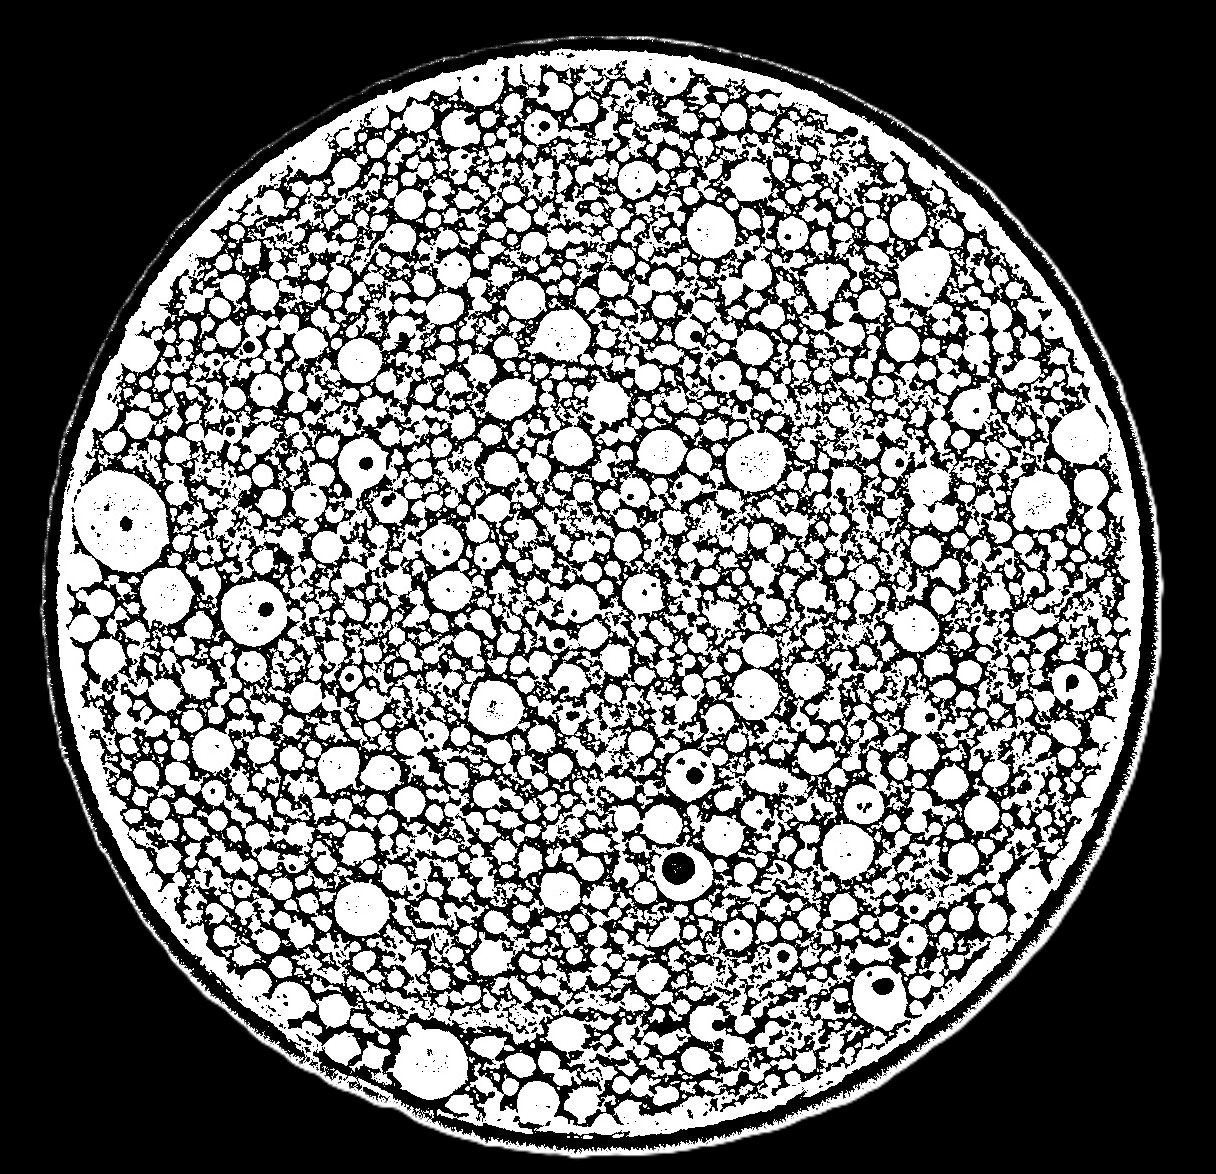
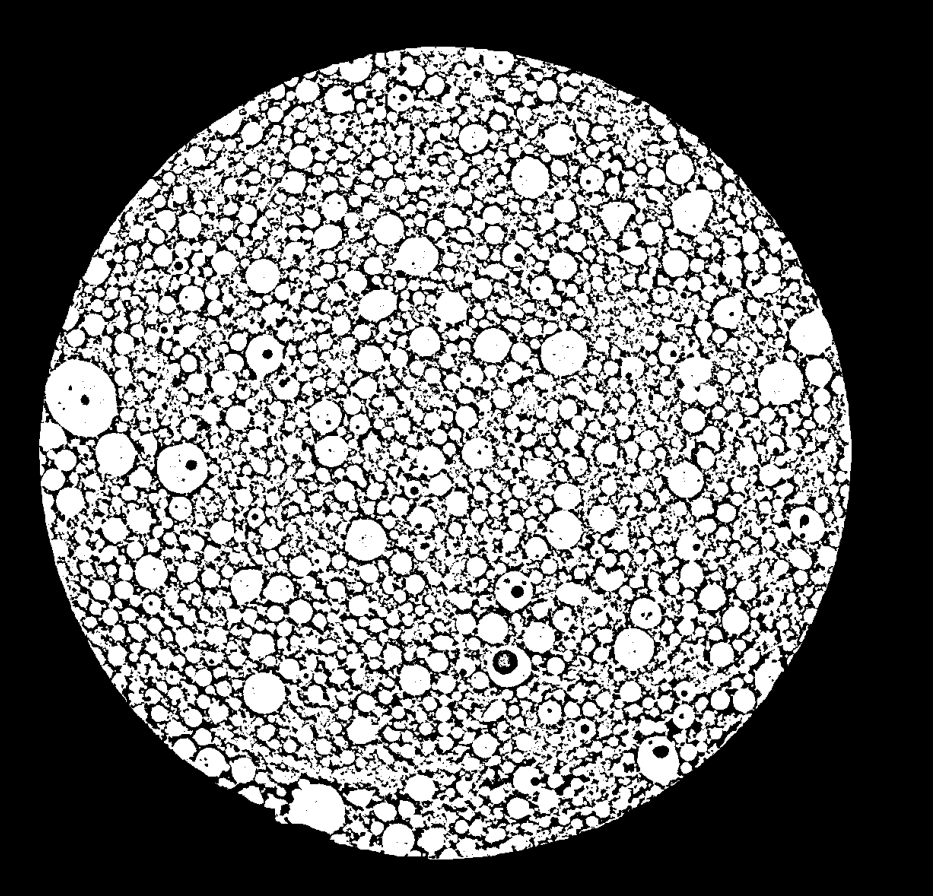
final commit before IP report. Main functions tested to work.

diff --git a/particleAnalysisMorph.py b/particleAnalysisMorph.py
@@ -4,31 +4,43 @@ import numpy as np
 import matplotlib.pyplot as plt
 import cv2
 import skimage
-from skimage.measure import regionprops, label
+from skimage.measure import regionprops, label, regionprops_table
 from skimage.color import label2rgb
 from scipy import ndimage as ndi
 from skimage.feature import peak_local_max
 from skimage.segmentation import watershed
 from skimage import filters, morphology, segmentation, measure, feature
 import random
+import pandas as pd
 
 image = cv2.imread('Adaptive Gaussian edited.png')
 image = cv2.threshold(image, 100, 255, cv2.THRESH_BINARY)[1]
-morphed = cv2.erode(image, cv2.getStructuringElement(cv2.MORPH_RECT, (2, 2)), iterations=2)
-morphed = cv2.morphologyEx(morphed, cv2.MORPH_CLOSE , np.ones((2,2),np.uint8))
+
+morphed = cv2.morphologyEx(image, cv2.MORPH_CLOSE , np.ones((2,2),np.uint8))
+#morphed = cv2.erode(morphed, cv2.getStructuringElement(cv2.MORPH_DIAMOND, (3, 3)), iterations=2)
+morphed = cv2.erode(morphed, cv2.getStructuringElement(cv2.MORPH_RECT, (2, 2)), iterations=4)
 morphed = cv2.morphologyEx(morphed, cv2.MORPH_OPEN , np.ones((2,2),np.uint8))
 morphed = cv2.threshold(morphed, 100, 255, cv2.THRESH_BINARY)[1]
-labeledImage, count = label(cv2.cvtColor(morphed, cv2.COLOR_BGR2GRAY), connectivity=2, return_num=True)
-print(count)
+labeledImage, count = label(cv2.cvtColor(morphed, cv2.COLOR_BGR2GRAY), connectivity=1, return_num=True)
+# print(count)
+# plt.imshow(morphed)
+# plt.show()
+# plt.imshow(labeledImage)
+# plt.show()
+props = regionprops_table(
+    labeledImage,
+    properties=('feret_diameter_max', 'area', 'area_filled')
+)
+df = pd.DataFrame(props)
+df.to_csv("2D_316L_300mic_particle_analysis_results.csv", index=False)
 objects = regionprops(labeledImage)
 objects = [obj for obj in objects if obj.area > 100]
 for i in range(5):
     pick = random.randint(0,len(objects)-1)
     print(objects[pick].area)
     print(objects[pick])
-    plt.imshow(objects[pick].image.astype(np.uint8)*255)
-    plt.show()
-    breakpoint()
+    # plt.imshow(objects[pick].image.astype(np.uint8)*255)
+    # plt.show()
 #labeledImage = label2rgb(labeledImage,image=morphed, bg_label=0)
 
 '''

diff --git a/3dAnalysisSciKit.py b/3dAnalysisSciKit.py
@@ -18,14 +18,20 @@ largeObjects = skimage.morphology.remove_small_objects(labels, min_size=4000000,
 labels = labels ^ largeObjects
 
 filteredLabels = skimage.morphology.remove_small_objects(labels, min_size=100)
-props = skimage.measure.regionprops_table(filteredLabels, properties=['label', 'area_filled', 'axis_major_length', 'axis_minor_length', 'feret_diameter_max'])
-df = pd.DataFrame(props)
-df.to_csv("316L_300mic_3d_pore_analysis_results.csv", index=False)
+# props = skimage.measure.regionprops_table(filteredLabels, properties=['label', 'area_filled', 'axis_major_length', 'axis_minor_length', 'feret_diameter_max'])
+# df = pd.DataFrame(props)
+# df.to_csv("316L_300mic_3d_pore_analysis_results.csv", index=False)
+
+
 # transformed = ndi.distance_transform_edt(labels)
 # maxima = skimage.morphology.local_maxima(transformed)
 viewer = napari.Viewer()
-viewer.add_image(img, name='3D Volume', visible=False)
-viewer.add_labels(filteredLabels, name='Segmented Labels', visible=False)
-viewer.add_labels(morphedLabel, name='Morphed Labels')
+viewer.add_image(img, name='3D Volume', visible=False, scale=(3,3,3))
+viewer.scale_bar.visible = True
+viewer.scale_bar.unit = 'um'  
+viewer.scale_bar.font_size = 40 
+viewer.scale_bar.position = 'bottom_center'
+viewer.add_labels(filteredLabels, name='Segmented Labels', visible=False, scale=(3,3,3))
+viewer.add_labels(morphedLabel, name='Morphed Labels', scale=(3,3,3))
 # viewer.add_points(np.transpose(np.nonzero(maxima)), name='Local Maxima')
 napari.run()

diff --git a/extractData.py b/extractData.py
@@ -11,27 +11,32 @@ bytes_per_voxel = np.dtype(dtype).itemsize
 slice_size = width * height * bytes_per_voxel
 offset = slice_index * slice_size
 
+
 # open file and read only one slice
 with open(filename, 'rb') as f:
     f.seek(offset)
     slice_data = np.fromfile(f, dtype=dtype, count=width*height)
 
+
+
 slice_img = slice_data.reshape((height, width))
 
+
 thresh_global = cv2.threshold(slice_img, 100, 255, cv2.THRESH_BINARY)[1]
-thresh_otsu = cv2.threshold(slice_img, 0, 255, cv2.THRESH_BINARY + cv2.THRESH_OTSU)[1]
+thresh_otsu = cv2.threshold(slice_img, 0, 255, cv2.THRESH_OTSU)[1]
 thresh_adaptive_mean = cv2.adaptiveThreshold(slice_img, 255, cv2.ADAPTIVE_THRESH_MEAN_C, cv2.THRESH_BINARY, 51, 10)
 thresh_adaptive_gauss = cv2.adaptiveThreshold(slice_img, 255, cv2.ADAPTIVE_THRESH_GAUSSIAN_C, cv2.THRESH_BINARY, 51, 10)
 
-titles = ['Original', 'Global (t=100)', 'Otsu', 'Adaptive Mean', 'Adaptive Gaussian']
-images = [slice_img, thresh_global, thresh_otsu, thresh_adaptive_mean, thresh_adaptive_gauss]
+titles = ['Original', 'Otsu', 'Adaptive Mean', 'Adaptive Gaussian']
+images = [slice_img, thresh_otsu, thresh_adaptive_mean, thresh_adaptive_gauss]
 
 plt.figure(figsize=(14, 6))
-for i in range(5):
-    plt.subplot(2, 3, i+1)
+for i in range(4):
+    plt.subplot(2, 2, i+1)
     plt.imshow(images[i], cmap = 'gray')
-    plt.title(titles[i])
+    plt.title(titles[i], fontsize=30)
     plt.axis('off')
+    
     cv2.imwrite(titles[i] + ".jpg",images[i])
 plt.tight_layout()
 plt.show()

diff --git a/3dDisplay.py b/3dDisplay.py
@@ -3,7 +3,7 @@ import matplotlib.pyplot as plt
 import cv2
 import imageio
 
-filename = "20250318_HMX_4523_ZZ_Inconel_718_20mic_2000x2000x2000x8bit.raw"
+filename = "20250314_HMX_4523_ZZ_316L_300mic_2000x2000x2000x8bit.raw"
 #filename = "CylinderCropped.raw"
 width, height, depth = 2000, 2000, 2000
 dtype = np.uint8
@@ -25,15 +25,23 @@ k = np.ones((3,3),np.uint8)
 for i in range(100):
     original = slice_images[i].copy()
     cropMask = cv2.threshold(slice_images[i], 0 , 255, cv2.THRESH_BINARY + cv2.THRESH_OTSU)[1]
+    plt.imshow(cropMask, cmap='gray')
+    plt.show()
     slice_images[i] = cv2.adaptiveThreshold(slice_images[i], 255, cv2.ADAPTIVE_THRESH_GAUSSIAN_C, cv2.THRESH_BINARY, 41, 15)  
     
     #slice_images[i] = cv2.bitwise_not(slice_images[i])
     
     cropMask = cv2.dilate(cropMask, k, iterations=20)
+    plt.imshow(cropMask, cmap='gray')
+    plt.show()
     cropMask = cv2.erode(cropMask, k, iterations=30)
     outputImg = cv2.bitwise_and(cropMask, slice_images[i])
     #outputImg = cv2.morphologyEx(outputImg, cv2.MORPH_CLOSE , np.ones((2,2),np.uint8), iterations=1)
     slice_images[i] = outputImg
+    plt.imshow(cropMask, cmap='gray')
+    plt.show()
+    plt.imshow(outputImg, cmap='gray')
+    plt.show()
     # if i == 29:
     #     plt.subplot(121)
     #     plt.imshow(slice_images[i], cmap='gray')

diff --git a/graphing.py b/graphing.py
@@ -2,7 +2,7 @@ import pandas as pd
 import matplotlib.pyplot as plt
 import numpy as np
 
-df = pd.read_csv('poreFerretDiameter.csv')
+df = pd.read_csv('poreFerretDiameterAdjusted.csv')
 
 col1, col2, col3 = df.columns
 
@@ -18,7 +18,7 @@ bins = np.arange(min_edge, max_edge + bin_width, bin_width)
 
 
 plt.figure(figsize=(8, 6))
-
+plt.rcParams.update({'font.size': 20})
 
 counts1, _, patches1 = plt.hist(data1, bins=bins, alpha=0.5, label=col1)
 counts2, _, patches2 = plt.hist(data2, bins=bins, alpha=0.5, label=col2)
@@ -29,7 +29,7 @@ def add_labels(counts, patches):
         if count > 0:
             x = patch.get_x() + patch.get_width() / 2
             y = patch.get_height()
-            plt.text(x, y, int(count), ha='center', va='bottom', fontsize=8)
+            plt.text(x, y, int(count), ha='center', va='bottom', fontsize=20)
 
 
 # add_labels(counts1, patches1)
@@ -37,10 +37,11 @@ def add_labels(counts, patches):
 # add_labels(counts3, patches3)
 
 
+
 plt.xticks(bins, rotation=90)
-plt.xlabel('diameter (um)')
-plt.ylabel('Frequency')
-plt.title('Overlapping Histograms of Ferret Diameters of pores')
+plt.xlabel('diameter (um)', fontsize=20)
+plt.ylabel('Frequency', fontsize=20)
+plt.title('Overlapping Histograms of Ferret Diameters of Pores', fontsize=20)
 plt.legend()
 
 plt.tight_layout()

diff --git a/basicRawRead.py b/basicRawRead.py
@@ -2,12 +2,14 @@ import numpy as np
 import skimage
 import napari
 import pandas as pd
+import dask.array as da
 
-filename = "20250318_HMX_4523_ZZ_Inconel_718_20mic_2000x2000x2000x8bit.raw"
-width, height, depth = 2000, 2000, 2000
-dtype = np.uint8
+filename = r"E:\HT1762_B\20260213_HMX_4936_JP_HT1762_B_ALL_2000x2000x5748x32bit"
+width, height, depth = 2000, 2000, 5748
+# dtype = np.uint8
+dtype = np.float32
 
-slice_index = 1000  
+slice_index = 4748  
 bytes_per_voxel = np.dtype(dtype).itemsize
 slice_size = width * height * bytes_per_voxel
 offset = slice_index * slice_size
@@ -16,8 +18,8 @@ offset = slice_index * slice_size
 
 with open(filename, 'rb') as f:
     f.seek(offset)
-    slice_data = np.fromfile(f, dtype=dtype, count=width*height*100)
-img = slice_data.reshape((100, height, width)) 
+    slice_data = np.fromfile(f, dtype=dtype, count=width*height*500)
+img = slice_data.reshape((500, height, width)) 
 
 
 viewer = napari.Viewer()

diff --git a/particleAnalysisScikit.py b/particleAnalysisScikit.py
@@ -15,9 +15,9 @@ morphedLabel = skimage.morphology.isotropic_dilation(img, radius=4)
 labels = skimage.measure.label(morphedLabel == 0, connectivity=1)
 
 filteredLabels = skimage.morphology.remove_small_objects(labels, min_size=100)
-props = skimage.measure.regionprops_table(filteredLabels, properties=['label', 'area_filled', 'area_convex' ,'axis_major_length', 'axis_minor_length', 'feret_diameter_max'])
-df = pd.DataFrame(props)
-df.to_csv("316L_300mic_particle_analysis_results.csv", index=False)
+# props = skimage.measure.regionprops_table(filteredLabels, properties=['label', 'area_filled', 'area_convex' ,'axis_major_length', 'axis_minor_length', 'feret_diameter_max'])
+# df = pd.DataFrame(props)
+# df.to_csv("316L_300mic_particle_analysis_results.csv", index=False)
 
 
 viewer = napari.Viewer()

diff --git a/volumeFractionGraph.py b/volumeFractionGraph.py
@@ -11,7 +11,7 @@ data2 = pd.to_numeric(df[col2], errors='coerce').dropna().values
 data3 = pd.to_numeric(df[col3], errors='coerce').dropna().values
 
 all_data = np.concatenate([data1, data2, data3])
-bin_width = 5
+bin_width = 20
 min_edge = np.floor(all_data.min() / bin_width) * bin_width
 max_edge = np.ceil(all_data.max() / bin_width) * bin_width
 bins = np.arange(min_edge, max_edge + bin_width, bin_width)
@@ -33,6 +33,8 @@ vf3 = volume_fraction(data3, bins)
 bin_centers = bins[:-1] + bin_width / 2
 
 plt.figure(figsize=(8, 6))
+
+plt.rcParams.update({'font.size': 20})
 
 plt.bar(bin_centers, vf1, width=bin_width, alpha=0.5, label=col1)
 plt.bar(bin_centers, vf2, width=bin_width, alpha=0.5, label=col2)

diff --git a/README.md b/README.md
@@ -1,2 +1,4 @@
 # individualProject
 Computational Analysis of Metal Powders for Additional Manufacturing
+
+Many things may be broken from personal testing. Please contact me for any question about how to run this. Currently not optimised for use but will potentially be improved in future. Forks or pull requests welcome.
